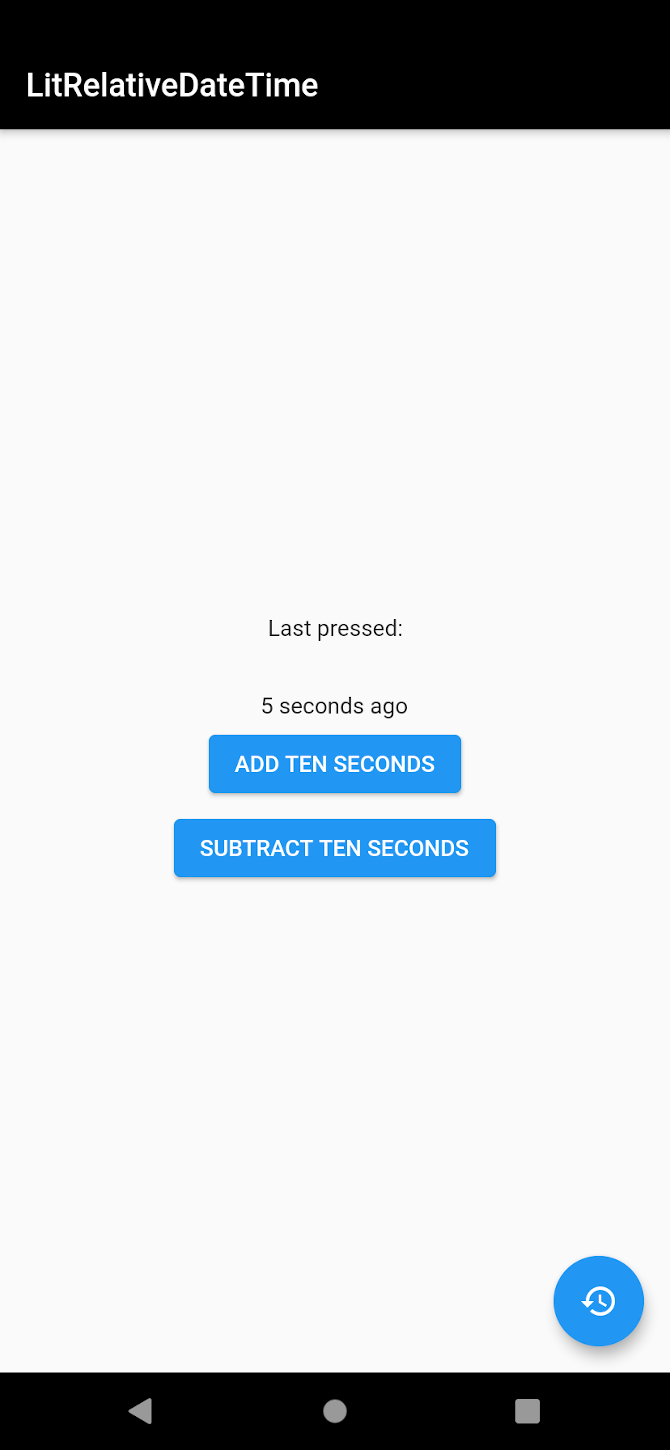
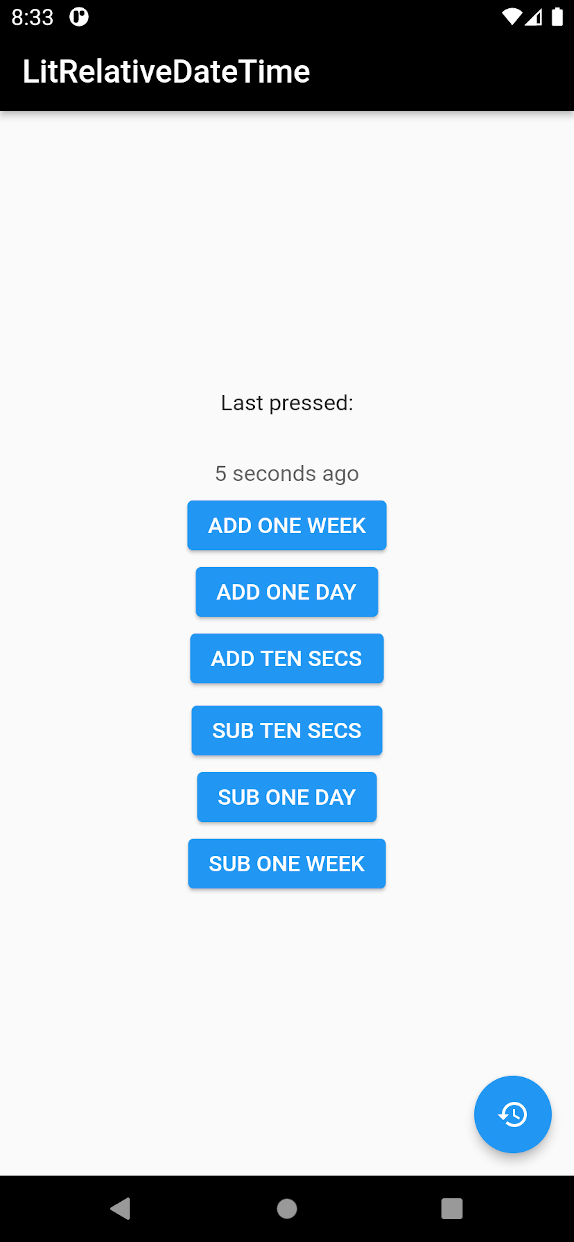
Update `README` - Replace  screenshot assets

diff --git a/README.md b/README.md
@@ -10,7 +10,7 @@ LitRelativeDateTime is a Flutter package to generate relative dates to show diff
 
 ## Screenshots
 
-| English Locale          | German Locale          |
+| English Locale     | German Locale      |
 | ------------------ | ------------------ |
 | ![1][screenshot_1] | ![2][screenshot_2] |
 
@@ -58,29 +58,40 @@ If you want to provide your own Localizations, you can do so by passing the opti
 argument, which contains a list of `RelativeDateLocalization` objects:
 
 ```dart
-RelativeDateFormat _relativeDateFormatter = RelativeDateFormat(
-      Localizations.localeOf(context),
-      localizations: [
-        RelativeDateLocalization(
-          languageCode: 'en',
-          timeUnitsSingular: ['second', 'minute', 'hour', 'day', 'year'],
-          timeUnitsPlural: ['seconds', 'minutes', 'hours', 'days', 'years'],
-          prepositionPast: 'ago',
-          prepositionFuture: 'in',
-          atTheMoment: 'now',
-          formatOrderPast: [
-            FormatComponent.value,
-            FormatComponent.unit,
-            FormatComponent.preposition
-          ],
-          formatOrderFuture: [
-            FormatComponent.preposition,
-            FormatComponent.value,
-            FormatComponent.unit,
-          ],
-        )
-      ],
-    );
+RelativeDateLocalization(
+  languageCode: 'en',
+  timeUnitsSingular: [
+    'second',
+    'minute',
+    'hour',
+    'day',
+    'week',
+    'month',
+    'year',
+  ],
+  timeUnitsPlural: [
+    'seconds',
+    'minutes',
+    'hours',
+    'days',
+    'weeks',
+    'months',
+    'years',
+  ],
+  prepositionPast: 'ago',
+  prepositionFuture: 'in',
+  atTheMoment: 'now',
+  formatOrderPast: [
+    FormatComponent.value,
+    FormatComponent.unit,
+    FormatComponent.preposition
+  ],
+  formatOrderFuture: [
+    FormatComponent.preposition,
+    FormatComponent.value,
+    FormatComponent.unit,
+  ],
+);
 ```
 
 Now the `RelativeDateFormat`'s `format()` method can be called, which takes the `RelativeDateTime` as
@@ -91,7 +102,7 @@ Text(relativeDateFormatter.format(relativeDateTime))
 ```
 
 There is an `AnimatedBuilder` implementation (`AnimatedRelativeDateTimeBuilder`) available to display `RelativeDateTime` values relative
-to the current timestamp. The animation renders every second to e.g allow updating the builder
+to the current timestamp. The animation renders every second to allow updating the builder
 every past second.
 
 ```dart
